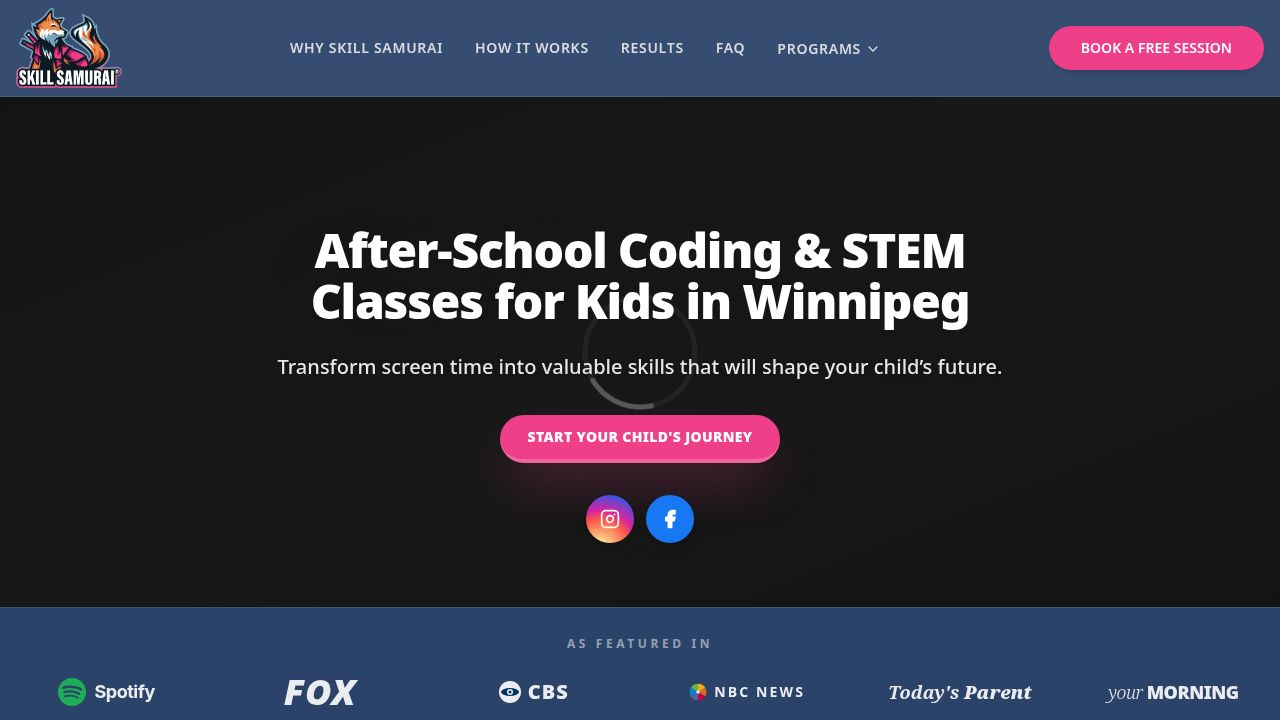
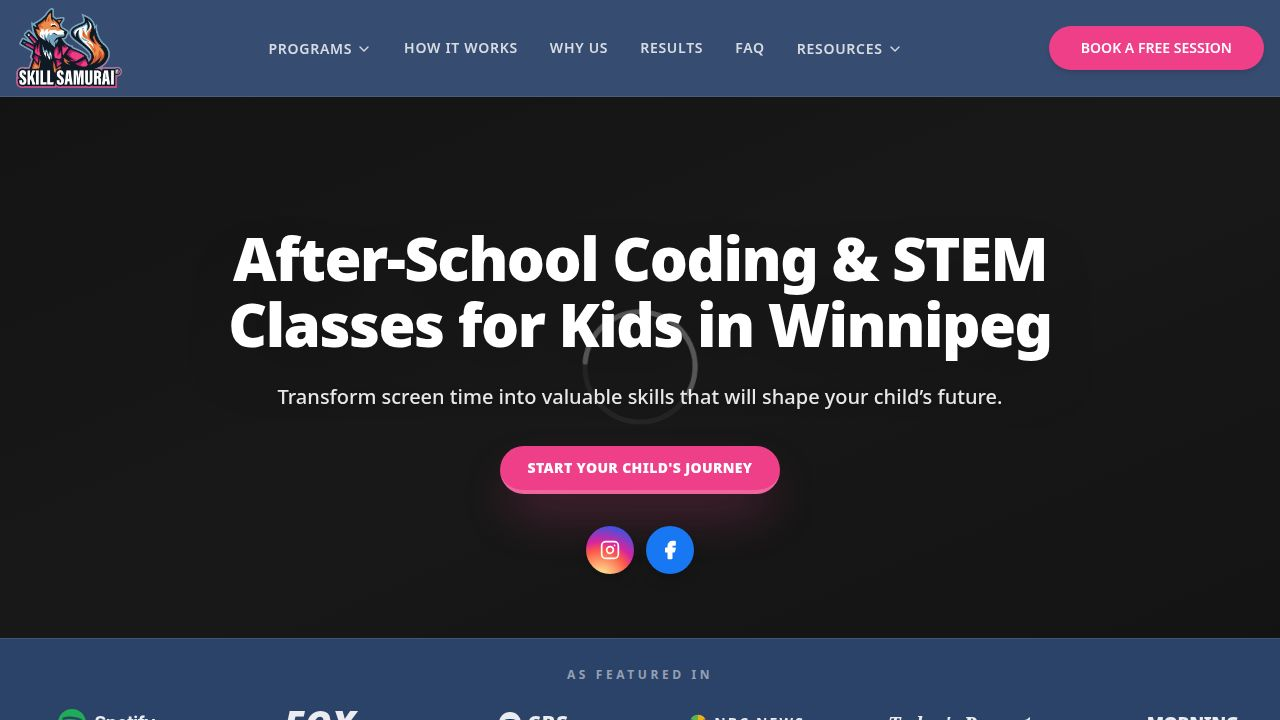
Add a blog page and group navigation links under resources
Adds a new blog page with placeholder posts and updates the navigation bar to group "Blog" and "Parent Calendar" under a "Resources" dropdown.

Replit-Commit-Author: Agent
Replit-Commit-Session-Id: 729017d6-bf7a-44f6-8009-f40538ea4bf4
Replit-Commit-Checkpoint-Type: full_checkpoint
Replit-Commit-Event-Id: 1a9fa024-441a-4cdf-90ee-0f59861cb1a7
Replit-Commit-Screenshot-Url: https://storage.googleapis.com/screenshot-production-us-central1/af962ec5-b95a-4dd5-9c82-ccafa5032904/729017d6-bf7a-44f6-8009-f40538ea4bf4/1QAQ2Jp
Replit-Helium-Checkpoint-Created: true

diff --git a/artifacts/skill-samurai/src/pages/blog.tsx b/artifacts/skill-samurai/src/pages/blog.tsx
@@ -1,0 +1,160 @@
+import React from "react";
+import Navbar from "@/components/navbar";
+import Footer from "@/components/footer";
+import FinalCta from "@/components/sections/final-cta";
+import { FadeIn } from "@/components/ui/fade-in";
+import { Link } from "wouter";
+import { ArrowRight, Clock, Tag } from "lucide-react";
+
+const posts = [
+  {
+    slug: "why-coding-is-the-new-literacy",
+    title: "Why Coding Is the New Literacy — And Why Your Child Needs It Now",
+    excerpt:
+      "Reading and writing were once reserved for the elite. Today, coding is following the same path. Here's why getting your child started early is one of the best investments you'll ever make.",
+    date: "April 22, 2025",
+    readTime: "4 min read",
+    tag: "Parent Guide",
+    tagColor: "bg-primary/10 text-primary",
+    image: "https://images.unsplash.com/photo-1587620962725-abab7fe55159?w=800&q=80",
+  },
+  {
+    slug: "roblox-and-minecraft-gateway-to-real-coding",
+    title: "Roblox & Minecraft: Gateway to Real Programming Skills",
+    excerpt:
+      "Kids already love these games — we use that passion to teach actual coding concepts like variables, loops, and logic. See how play-based learning accelerates skill development.",
+    date: "March 10, 2025",
+    readTime: "5 min read",
+    tag: "STEM Learning",
+    tagColor: "bg-accent/15 text-orange-700",
+    image: "https://images.unsplash.com/photo-1493711662062-fa541adb3fc8?w=800&q=80",
+  },
+  {
+    slug: "screen-time-vs-productive-screen-time",
+    title: "Screen Time vs. Productive Screen Time: What Every Parent Should Know",
+    excerpt:
+      "Not all screens are created equal. Discover the difference between passive consumption and active creation — and how coding classes flip the script on your child's device time.",
+    date: "February 3, 2025",
+    readTime: "3 min read",
+    tag: "Parent Guide",
+    tagColor: "bg-primary/10 text-primary",
+    image: "https://images.unsplash.com/photo-1588702547919-26089e690ecc?w=800&q=80",
+  },
+  {
+    slug: "stem-careers-winnipeg-kids",
+    title: "The Fastest-Growing Careers Are Tech — Is Your Winnipeg Kid Ready?",
+    excerpt:
+      "Software, AI, cybersecurity, and robotics jobs are exploding across Canada. We break down the career landscape and how early STEM education puts kids ahead of the curve.",
+    date: "January 15, 2025",
+    readTime: "6 min read",
+    tag: "Future Ready",
+    tagColor: "bg-secondary/10 text-secondary",
+    image: "https://images.unsplash.com/photo-1531482615713-2afd69097998?w=800&q=80",
+  },
+  {
+    slug: "building-confidence-through-coding",
+    title: "Building Confidence, Resilience, and Problem-Solving Through Code",
+    excerpt:
+      "Debugging a program teaches kids that failure is a step, not a destination. Learn how our students develop a growth mindset that carries over into every subject at school.",
+    date: "December 5, 2024",
+    readTime: "4 min read",
+    tag: "Child Development",
+    tagColor: "bg-accent/15 text-orange-700",
+    image: "https://images.unsplash.com/photo-1522202176988-66273c2fd55f?w=800&q=80",
+  },
+  {
+    slug: "what-age-should-kids-start-coding",
+    title: "What Age Should Kids Start Coding? (Hint: Sooner Than You Think)",
+    excerpt:
+      "We answer the #1 question parents ask us. From our youngest 6-year-old Roblox builders to our 17-year-old JavaScript developers, there's a right time — and it might be now.",
+    date: "November 18, 2024",
+    readTime: "4 min read",
+    tag: "Parent Guide",
+    tagColor: "bg-primary/10 text-primary",
+    image: "https://images.unsplash.com/photo-1503676260728-1c00da094a0b?w=800&q=80",
+  },
+];
+
+export default function BlogPage() {
+  return (
+    <div className="flex min-h-[100dvh] flex-col overflow-x-clip">
+      <Navbar />
+      <main className="flex-1">
+        {/* Hero */}
+        <section className="bg-secondary py-20 md:py-28 relative overflow-hidden">
+          <div className="absolute -top-20 -right-20 w-96 h-96 bg-primary/15 rounded-full blur-[80px] pointer-events-none" />
+          <div className="absolute -bottom-20 -left-20 w-80 h-80 bg-accent/20 rounded-full blur-[80px] pointer-events-none" />
+          <div className="container mx-auto px-4 relative">
+            <FadeIn>
+              <p className="text-center text-xs font-bold uppercase tracking-widest text-primary mb-3">
+                Skill Samurai Blog
+              </p>
+              <h1 className="text-4xl md:text-5xl font-extrabold text-white text-center leading-tight mb-4">
+                Resources for STEM-Forward<br className="hidden sm:block" /> Winnipeg Families
+              </h1>
+              <p className="text-center text-white/70 max-w-xl mx-auto text-lg">
+                Tips, guides, and insights to help your child thrive in a tech-driven world.
+              </p>
+            </FadeIn>
+          </div>
+        </section>
+
+        {/* Posts grid */}
+        <section className="py-20 md:py-28 bg-background">
+          <div className="container mx-auto px-4">
+            <div className="grid gap-8 md:grid-cols-2 lg:grid-cols-3">
+              {posts.map((post, i) => (
+                <FadeIn key={post.slug} delay={i * 60}>
+                  <article className="group flex flex-col rounded-3xl overflow-hidden border border-border bg-white shadow-sm hover:shadow-xl transition-all duration-300 h-full">
+                    <div className="relative overflow-hidden h-48">
+                      <img
+                        src={post.image}
+                        alt={post.title}
+                        className="w-full h-full object-cover group-hover:scale-105 transition-transform duration-500"
+                      />
+                      <span className={`absolute top-3 left-3 inline-flex items-center gap-1 rounded-full px-3 py-1 text-xs font-bold ${post.tagColor}`}>
+                        <Tag className="h-3 w-3" />
+                        {post.tag}
+                      </span>
+                    </div>
+                    <div className="flex flex-col flex-1 p-6">
+                      <div className="flex items-center gap-3 text-xs text-muted-foreground mb-3">
+                        <span>{post.date}</span>
+                        <span>·</span>
+                        <span className="inline-flex items-center gap-1">
+                          <Clock className="h-3 w-3" />
+                          {post.readTime}
+                        </span>
+                      </div>
+                      <h2 className="text-lg font-bold text-secondary leading-snug mb-2 group-hover:text-primary transition-colors">
+                        {post.title}
+                      </h2>
+                      <p className="text-sm text-muted-foreground leading-relaxed flex-1">
+                        {post.excerpt}
+                      </p>
+                      <div className="mt-5">
+                        <span className="inline-flex items-center gap-1 text-sm font-bold text-primary group-hover:gap-2 transition-all">
+                          Read article <ArrowRight className="h-4 w-4" />
+                        </span>
+                      </div>
+                    </div>
+                  </article>
+                </FadeIn>
+              ))}
+            </div>
+
+            {/* Coming soon note */}
+            <FadeIn delay={400}>
+              <p className="text-center text-muted-foreground text-sm mt-16">
+                More articles coming soon — follow us on social media to stay updated.
+              </p>
+            </FadeIn>
+          </div>
+        </section>
+
+        <FinalCta />
+      </main>
+      <Footer />
+    </div>
+  );
+}

diff --git a/artifacts/skill-samurai/src/components/navbar.tsx b/artifacts/skill-samurai/src/components/navbar.tsx
@@ -7,6 +7,7 @@ import { openCalendarPopup } from "@/components/ui/calendar-modal";
 export default function Navbar() {
   const [open, setOpen] = useState(false);
   const [programsOpen, setProgramsOpen] = useState(false);
+  const [resourcesOpen, setResourcesOpen] = useState(false);
   const [, navigate] = useLocation();
 
   const handleHashNav = (e: React.MouseEvent<HTMLAnchorElement>, href: string) => {
@@ -50,6 +51,11 @@ export default function Navbar() {
     },
   ];
 
+  const resourceLinks = [
+    { label: "Blog", href: "/blog", type: "internal" as const },
+    { label: "Parent Calendar", href: null, type: "popup" as const },
+  ];
+
   return (
     <header className="sticky top-0 z-50 w-full border-b border-white/10 bg-secondary/95 backdrop-blur-md">
       <div className="container mx-auto px-4 h-24 flex items-center justify-between gap-4">
@@ -60,7 +66,10 @@ export default function Navbar() {
             className="h-20 w-auto group-hover:scale-105 transition-transform duration-300"
           />
         </Link>
+
+        {/* Desktop nav */}
         <nav className="hidden lg:flex items-center gap-8">
+          {/* Programs dropdown */}
           <div
             className="relative"
             onMouseEnter={() => setProgramsOpen(true)}
@@ -83,7 +92,7 @@ export default function Navbar() {
             >
               <div className="bg-white rounded-2xl shadow-2xl border border-border overflow-hidden">
                 {programLinks.map((p) =>
-                  p.href.startsWith("/") ? (
+                  p.href.startsWith("/") && !p.external ? (
                     <Link
                       key={p.label}
                       href={p.href}
@@ -96,7 +105,8 @@ export default function Navbar() {
                     <a
                       key={p.label}
                       href={p.href}
-                      {...(p.external ? { target: "_blank", rel: "noopener noreferrer" } : {})}
+                      target="_blank"
+                      rel="noopener noreferrer"
                       onClick={() => setProgramsOpen(false)}
                       className="block px-5 py-3.5 text-sm font-semibold text-secondary hover:bg-primary hover:text-white transition-colors border-b border-border last:border-b-0"
                     >
@@ -107,6 +117,8 @@ export default function Navbar() {
               </div>
             </div>
           </div>
+
+          {/* Static links */}
           {links.map((link) =>
             link.href.startsWith("/") && !link.href.includes("#") ? (
               <Link
@@ -129,21 +141,60 @@ export default function Navbar() {
               <a
                 key={link.href}
                 href={link.href}
-                {...("external" in link && link.external ? { target: "_blank", rel: "noopener noreferrer" } : {})}
                 className="text-sm font-semibold uppercase tracking-wider text-white/80 hover:text-primary transition-colors"
               >
                 {link.label}
               </a>
             )
           )}
-          <button
-            type="button"
-            onClick={() => openCalendarPopup()}
-            className="text-sm font-semibold uppercase tracking-wider text-white/80 hover:text-primary transition-colors cursor-pointer"
+
+          {/* Resources dropdown */}
+          <div
+            className="relative"
+            onMouseEnter={() => setResourcesOpen(true)}
+            onMouseLeave={() => setResourcesOpen(false)}
           >
-            Calendar
-          </button>
+            <button
+              type="button"
+              className="inline-flex items-center gap-1 text-sm font-semibold uppercase tracking-wider text-white/80 hover:text-primary transition-colors cursor-pointer"
+              aria-haspopup="true"
+              aria-expanded={resourcesOpen}
+            >
+              Resources
+              <ChevronDown className={`h-4 w-4 transition-transform ${resourcesOpen ? "rotate-180" : ""}`} />
+            </button>
+            <div
+              className={`absolute left-1/2 -translate-x-1/2 top-full pt-3 min-w-[220px] transition-all ${
+                resourcesOpen ? "opacity-100 visible translate-y-0" : "opacity-0 invisible -translate-y-2"
+              }`}
+            >
+              <div className="bg-white rounded-2xl shadow-2xl border border-border overflow-hidden">
+                {resourceLinks.map((r) =>
+                  r.type === "internal" ? (
+                    <Link
+                      key={r.label}
+                      href={r.href!}
+                      onClick={() => setResourcesOpen(false)}
+                      className="block px-5 py-3.5 text-sm font-semibold text-secondary hover:bg-primary hover:text-white transition-colors border-b border-border last:border-b-0"
+                    >
+                      {r.label}
+                    </Link>
+                  ) : (
+                    <button
+                      key={r.label}
+                      type="button"
+                      onClick={() => { openCalendarPopup(); setResourcesOpen(false); }}
+                      className="w-full text-left block px-5 py-3.5 text-sm font-semibold text-secondary hover:bg-primary hover:text-white transition-colors border-b border-border last:border-b-0 cursor-pointer"
+                    >
+                      {r.label}
+                    </button>
+                  )
+                )}
+              </div>
+            </div>
+          </div>
         </nav>
+
         <div className="flex items-center gap-3">
           <a
             href="/#locations"
@@ -163,9 +214,12 @@ export default function Navbar() {
           </button>
         </div>
       </div>
+
+      {/* Mobile menu */}
       {open && (
         <div className="lg:hidden border-t border-white/10 bg-secondary/95 backdrop-blur-md">
           <div className="container mx-auto px-4 py-4 flex flex-col gap-4">
+            {/* Programs */}
             <div>
               <a
                 href="/#weekly-classes"
@@ -176,7 +230,7 @@ export default function Navbar() {
               </a>
               <div className="mt-3 ml-4 flex flex-col gap-3 border-l border-white/15 pl-4">
                 {programLinks.map((p) =>
-                  p.href.startsWith("/") ? (
+                  p.href.startsWith("/") && !p.external ? (
                     <Link
                       key={p.label}
                       href={p.href}
@@ -189,7 +243,8 @@ export default function Navbar() {
                     <a
                       key={p.label}
                       href={p.href}
-                      {...(p.external ? { target: "_blank", rel: "noopener noreferrer" } : {})}
+                      target="_blank"
+                      rel="noopener noreferrer"
                       className="text-sm font-medium text-white/80 hover:text-primary"
                       onClick={() => setOpen(false)}
                     >
@@ -199,6 +254,8 @@ export default function Navbar() {
                 )}
               </div>
             </div>
+
+            {/* Static links */}
             {links.map((link) =>
               link.href.startsWith("/") && !link.href.includes("#") ? (
                 <Link
@@ -222,7 +279,6 @@ export default function Navbar() {
                 <a
                   key={link.href}
                   href={link.href}
-                  {...("external" in link && link.external ? { target: "_blank", rel: "noopener noreferrer" } : {})}
                   className="text-base font-semibold text-white"
                   onClick={() => setOpen(false)}
                 >
@@ -230,13 +286,27 @@ export default function Navbar() {
                 </a>
               )
             )}
-            <button
-              type="button"
-              onClick={() => { openCalendarPopup(); setOpen(false); }}
-              className="text-base font-semibold text-white text-left cursor-pointer"
-            >
-              Calendar
-            </button>
+
+            {/* Resources group */}
+            <div>
+              <span className="text-base font-semibold text-white">Resources</span>
+              <div className="mt-3 ml-4 flex flex-col gap-3 border-l border-white/15 pl-4">
+                <Link
+                  href="/blog"
+                  className="text-sm font-medium text-white/80 hover:text-primary"
+                  onClick={() => setOpen(false)}
+                >
+                  Blog
+                </Link>
+                <button
+                  type="button"
+                  onClick={() => { openCalendarPopup(); setOpen(false); }}
+                  className="text-sm font-medium text-white/80 hover:text-primary text-left cursor-pointer"
+                >
+                  Parent Calendar
+                </button>
+              </div>
+            </div>
           </div>
         </div>
       )}

diff --git a/artifacts/skill-samurai/src/App.tsx b/artifacts/skill-samurai/src/App.tsx
@@ -6,6 +6,7 @@ import NotFound from "@/pages/not-found";
 import Home from "@/pages/home";
 import FaqPage from "@/pages/faq";
 import SchoolsCommunityPage from "@/pages/schools-community";
+import BlogPage from "@/pages/blog";
 
 const queryClient = new QueryClient();
 
@@ -15,6 +16,7 @@ function Router() {
       <Route path="/" component={Home} />
       <Route path="/faq" component={FaqPage} />
       <Route path="/schools-community" component={SchoolsCommunityPage} />
+      <Route path="/blog" component={BlogPage} />
       <Route component={NotFound} />
     </Switch>
   );